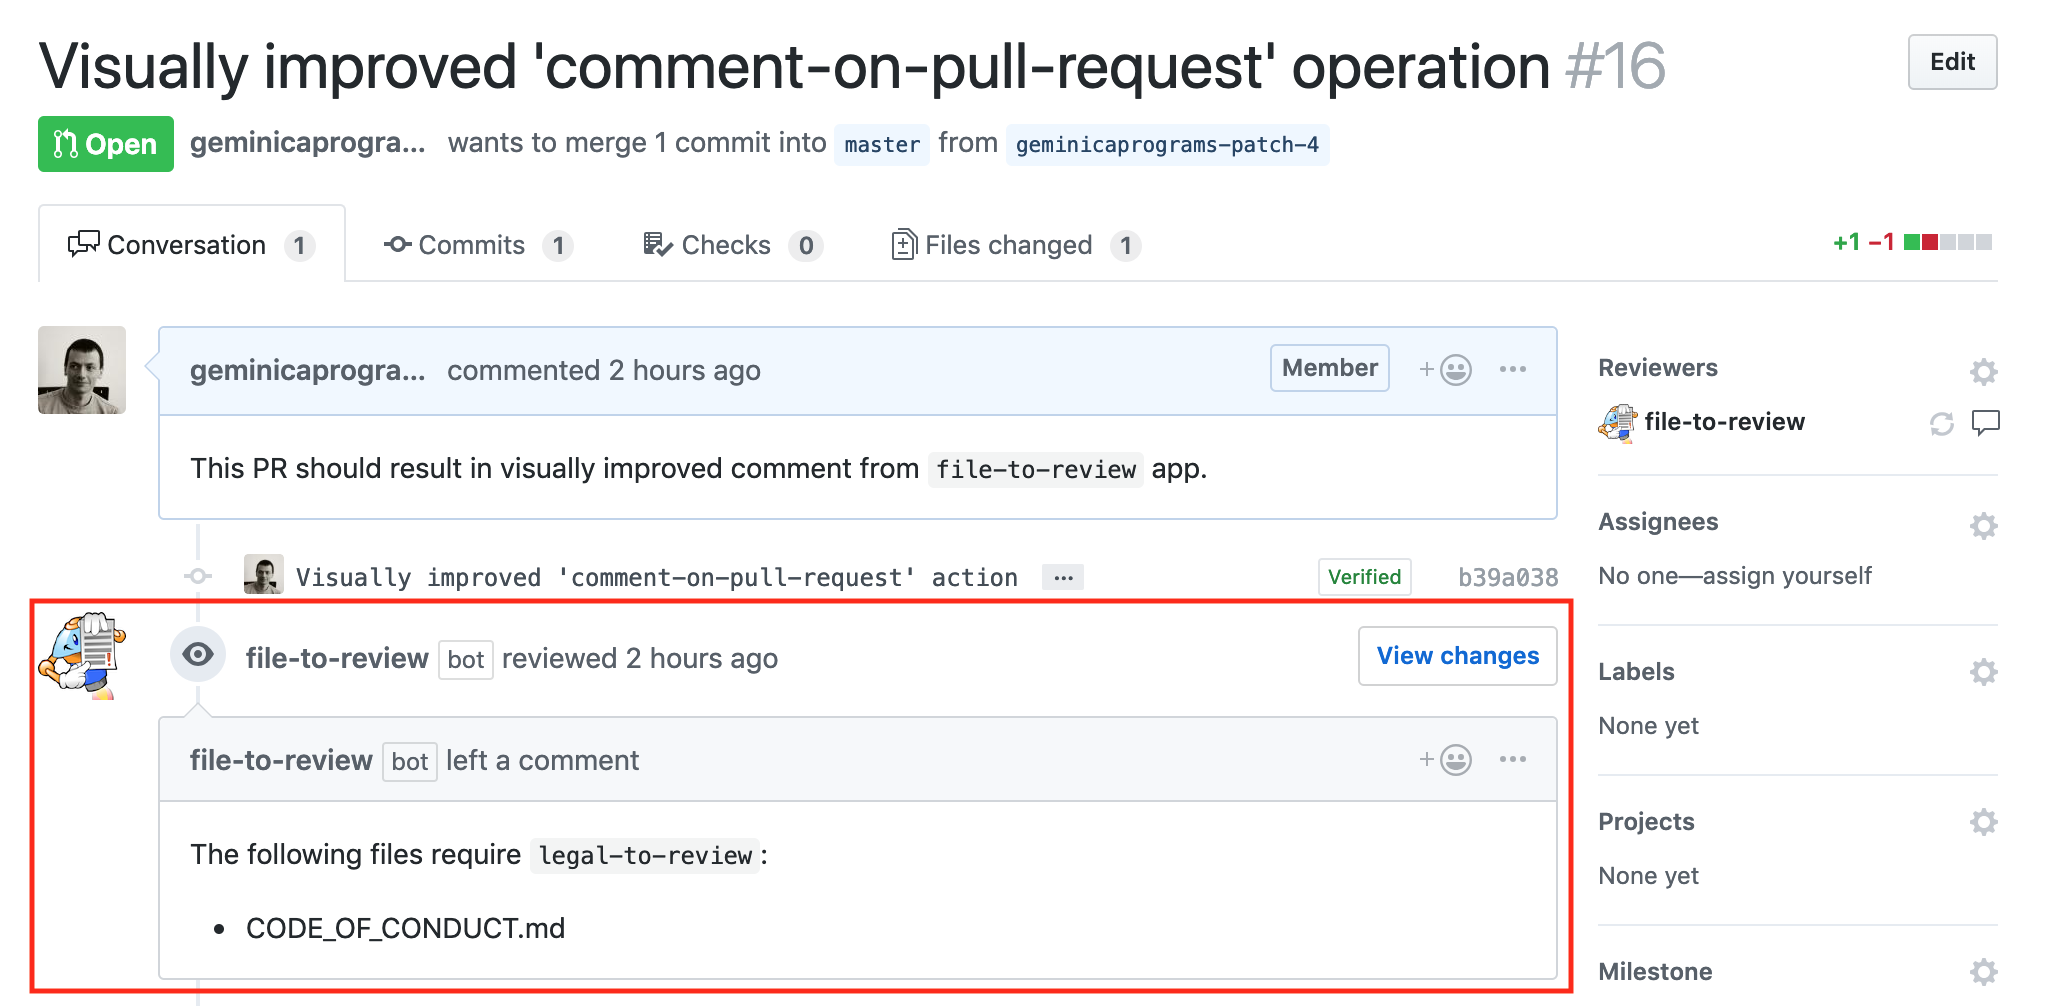
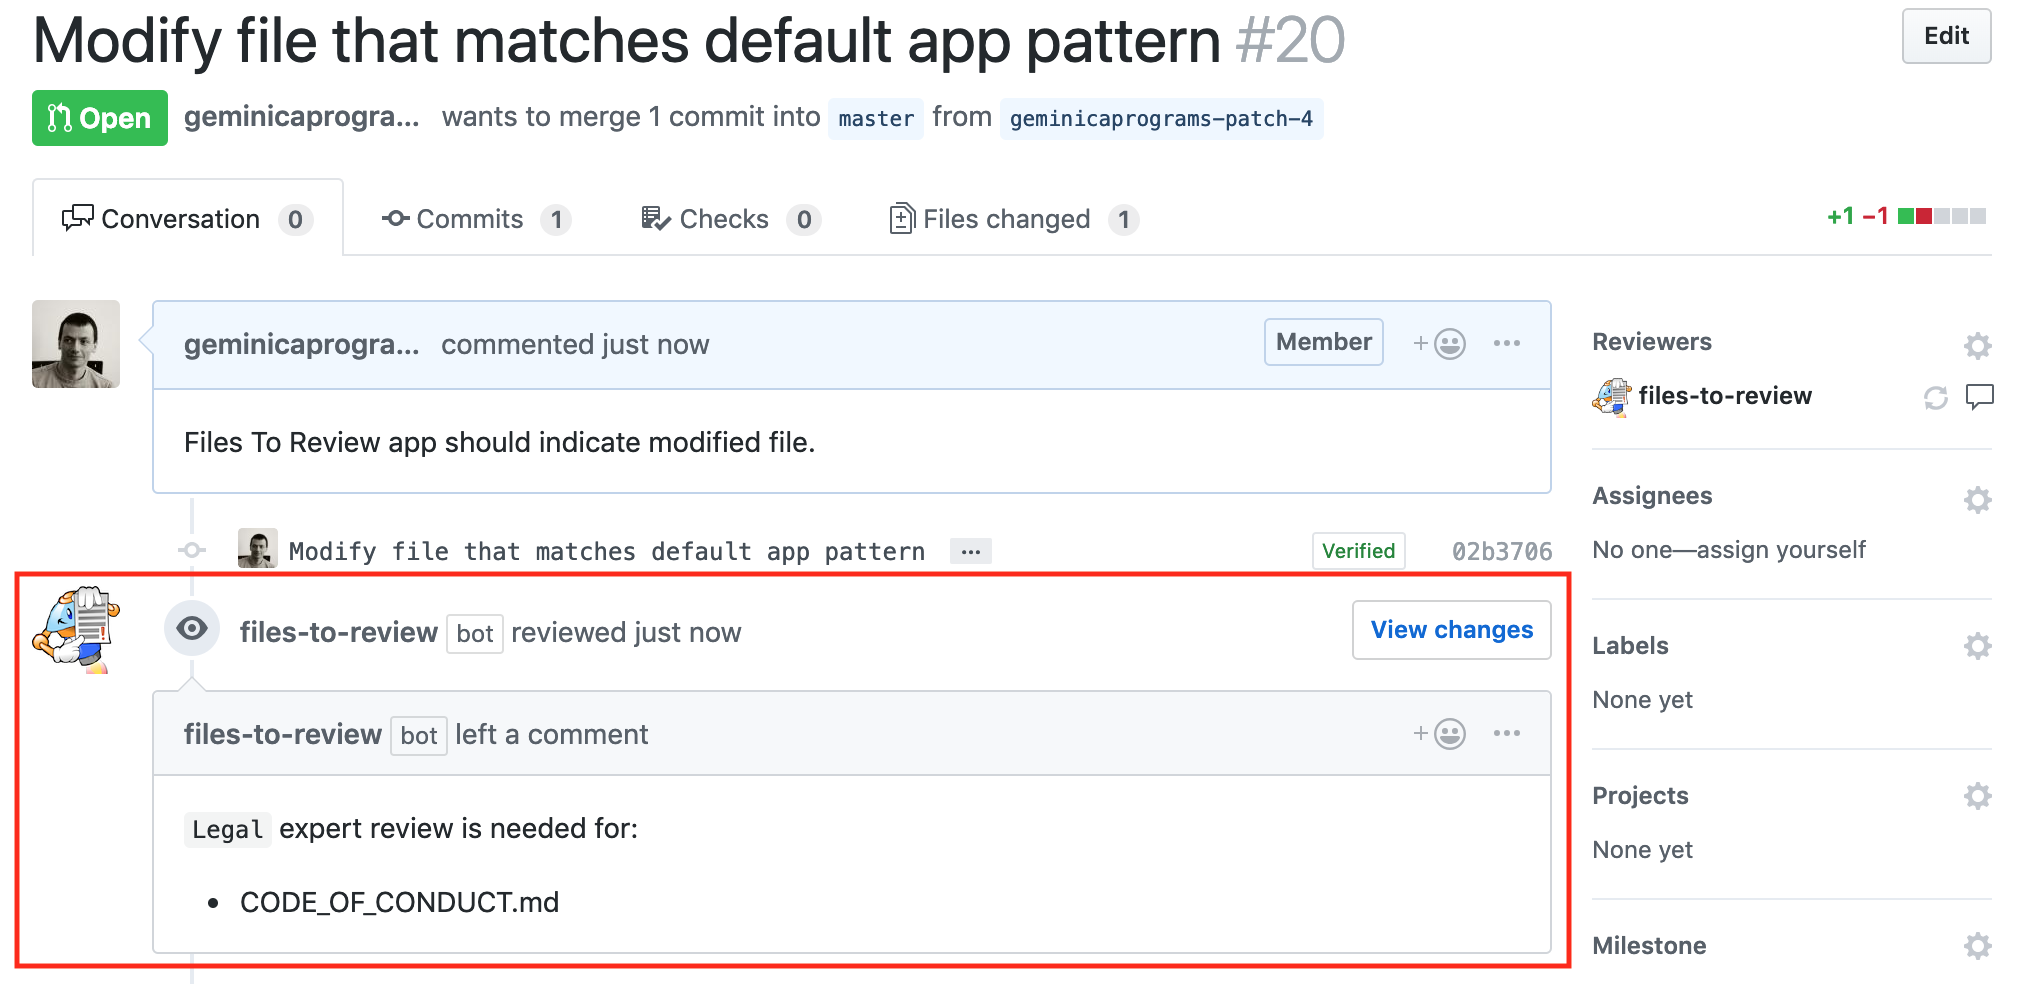
Make Files To Review app more appealing to non-developer
Several fixes were performed:
* description was simplified and made less cryptic
* configuration was improved so that it is clear what parameter
used for
* code was adjusted to the configuration

diff --git a/src/index.ts b/src/index.ts
@@ -33,7 +33,7 @@ export = (app: Application) => {
       const pattern: RegExp = new RegExp(config.regexp, 'i')
       const legalFiles: string[] = files.filter(file => isLegal(pattern, file.filename)).map(file => file.filename)
       if (legalFiles.length > 0) {
-        await review(context, config.name || '', legalFiles)
+        await review(context, config.reason || '', legalFiles, config.teams)
         // request review only when teams are specified
         if (config.teams && config.teams.length > 0) {
           await requestReview(context, config.teams)
@@ -58,9 +58,11 @@ export = (app: Application) => {
     await context.github.pullRequests.createReviewRequest(reviewRequest)
   }
 
-  async function review (context: Context, review: string, reviewFiles: string[]) {
+  async function review (context: Context, reason: string, reviewFiles: string[], teams?: string[]) {
     context.log(`Comment that some files need review in PR:[${context.payload.pull_request.number}]`)
-    const body: string = `The following files require \`${review}\`:` +
+    const body: string = ((reason && reason.length > 0) || !teams
+      ? `${reason}:`
+      : '`' + teams.join('`, `') + '` review is needed for:') +
       reviewFiles.reduce(function (acc: string, val: string) {
         return acc.concat('\n* ', val)
       }, '')

diff --git a/test/config.test.ts b/test/config.test.ts
@@ -16,19 +16,20 @@ describe('ReviewConfig tests', () => {
   test('properly parses reviewCriteria from config.yml', () => {
     const expected: ReviewConfig.ReviewCriteria[] =
       [
-        { name: 'some-to-review', regexp: 'some', teams: [ 'team1', 'team2' ] }
+        { reason: 'some-to-review', regexp: 'some', teams: [ 'team1', 'team2' ] }
       ]
     expect(ReviewConfig.getCriteria({ reviewCriteria: expected })).toEqual(expected)
   })
 
   test('skips reviewCriteria without regexp from config.yml', () => {
-    const expected: ReviewConfig.ReviewCriteria = { name: 'some-to-review', regexp: 'some' }
+    const withReason: ReviewConfig.ReviewCriteria = { reason: 'some-to-review', regexp: 'some' }
+    const withTeam: ReviewConfig.ReviewCriteria = { regexp: 'missing-name', teams: [ 'team' ] }
     const input: ReviewConfig.ReviewCriteria[] =
       [
-        expected,
-        { name: 'missing-regexp', teams: [ 'team' ] },
-        { regexp: 'missing-name', teams: [ 'team' ] }
+        withReason,
+        withTeam,
+        { reason: 'missing-regexp', teams: [ 'team' ] }
       ]
-    expect(ReviewConfig.getCriteria({ reviewCriteria: input })).toEqual([ expected ])
+    expect(ReviewConfig.getCriteria({ reviewCriteria: input })).toEqual([ withReason, withTeam ])
   })
 })

diff --git a/src/config.ts b/src/config.ts
@@ -1,9 +1,9 @@
 const DEF_PATTERN: string = '(licen(s|c)e)|(copyright)|(code.?of.?conduct)'
-export const LEGAL_TO_REVIEW = { name: 'legal-to-review', regexp: DEF_PATTERN }
+export const LEGAL_TO_REVIEW: ReviewCriteria = { reason: '`Legal` expert review is needed for', regexp: DEF_PATTERN }
 export const DEF_CONFIG = { reviewCriteria: [ LEGAL_TO_REVIEW ] }
 
 export interface ReviewCriteria {
-  name?: string
+  reason?: string
   regexp?: string
   teams?: string[]
 }
@@ -20,5 +20,6 @@ export function getCriteria (config: ReviewConfig | any): ReviewCriteria[] {
 }
 
 function isConfig (config: ReviewCriteria | any): config is ReviewCriteria {
-  return (<ReviewCriteria>config).regexp !== undefined && (<ReviewCriteria>config).name !== undefined
+  return (<ReviewCriteria>config).regexp !== undefined &&
+    ((<ReviewCriteria>config).reason !== undefined || (<ReviewCriteria>config).teams !== undefined)
 }

diff --git a/test/index.test.ts b/test/index.test.ts
@@ -15,7 +15,6 @@ import contentFile from './fixtures/content_file.json'
 const gitHubApiUrl: string = 'https://api.github.com'
 const configData: string = `reviewCriteria:
   - some:
-    name: "some-to-review"
     regexp: "barfile"
     teams:
       - some`

diff --git a/README.md b/README.md
@@ -1,9 +1,9 @@
-# ![cipy rules](./assets/cipy_rules_small.png) files-to-review app
+# ![cipy rules](./assets/cipy_rules_small.png) Files To Review app
 
-> A GitHub App built with [Probot](https://github.com/probot/probot) that comments on a pull request
-that certain files require review from a predefined team and requests review from that team when certain files
-(e.g. LICENSE, etc.) are part of the pull request [pr]. The latter operation is performed only when teams are
-configured. See the following diagram for details:
+> A GitHub App built with [Probot](https://github.com/probot/probot), similar to GitHub's [Code Owners](https://help.github.com/en/articles/about-code-owners)
+but offers more powerful expressions and tells teams which files they should review.
+
+Workflow:
 
 ![legal-to-review flow](./assets/legal-to-review-flow.png?raw=true)
 
@@ -11,68 +11,58 @@ configured. See the following diagram for details:
 
 ### Default config
 
-By default, the app works in `comment-on-pull-request` mode and matches pull request's files against the following
-pattern:
+By default the app matches files against the following pattern:
 ```regexp
 (licen(s|c)e)|(copyright)|(code.?of.?conduct)
 ```
-as a result comment (similar to the one below) gets added to the pull request.
-
 ![legal-should-review comment](./assets/comment.png?raw=true)
-
 
 ### Configuration description
 
-One can configure several review criterias in `./github/config.yml` according to the following structure:
+You can configure several review criteria in `./github/config.yml`:
 ```yaml
 reviewCriteria:
   - configName:
-    name: 'display-name'
+    reason: 'reason'
     regexp: 'pattern-to-search-for'
-    teams?:
+    teams:
       - 'optional-reviewers-team-name'
 
   ...
 ```
-Note that `teams` parameter is optional and when it is provided given `review criteria` results in app performing
-2 operations `comment-on-pull-request` and `request-review-to-team` that manifests itself commenting which files
-need to be reviewed and adding team(s) to reviewers list.
+The `teams` parameter is optional. When provided it will add the team as a reviewer.
+The `reason` parameter becomes optional when `teams` parameter is provided but it
+takes precedence when the pull request comment header is created.
 
 #### Example
 
-Setting the following configuration in `.github/config.yml`
 ```yaml
 reviewCriteria:
   - legal:
-    name: 'legal-to-review'
     regexp: '(licen(s|c)e)|(copyright)|(code.?of.?conduct)'
     teams:
       - 'Lawyers'
   - ui-experts:
-    name: 'ui-experts-to-review'
+    reason: 'UI expert review is needed for stylesheets'
     regexp: '\.css$'
 ```
-results in the following operations being performed:
-* comment indicating files to be reviewed by `legal-to-review` is added
-* `Lawyers` team is added to the _Reviewers_ list
-* comment indicating files to be reviewed by `ui-experts-to-review` is added
-
-It looks similar to the following pull request:
+would:
+* comment which files should reviewed by the `Lawyers` team
+* add `Lawyers` team is added to the _Reviewers_ list
+* comment that `UI expert review is needed for stylesheets`
 
 ![both-modes](./assets/combined.png?raw=true)
 
 ## TODO
 
-Introduce the following feature(s):
-* Add possibility to `request-review-to-team` based on PR author's team membership. This is especially handy when junior
-  developer joins the organization and his contributions should be reviewed by someone more experiences (e.g `Mentors` team member).
-* Consider acting on pull request updates.
+* Introduce a configuration option that allows contribution from junior members to be reviewed by their mentors.
+* Act on the pull request updates.
 
 ## Contributing
 
-If you have suggestions for how files-to-review could be improved, or want to report a bug, open an issue! We'd love all and any contributions.
+If you have suggestions for how this app could be improved, or want to report a bug, open an issue! We'd love all and any contributions.
 
-For more, check out the [Contributing Guide](CONTRIBUTING.md).
+Check out the [Contributing Guide](CONTRIBUTING.md).
 
 ## License
 
